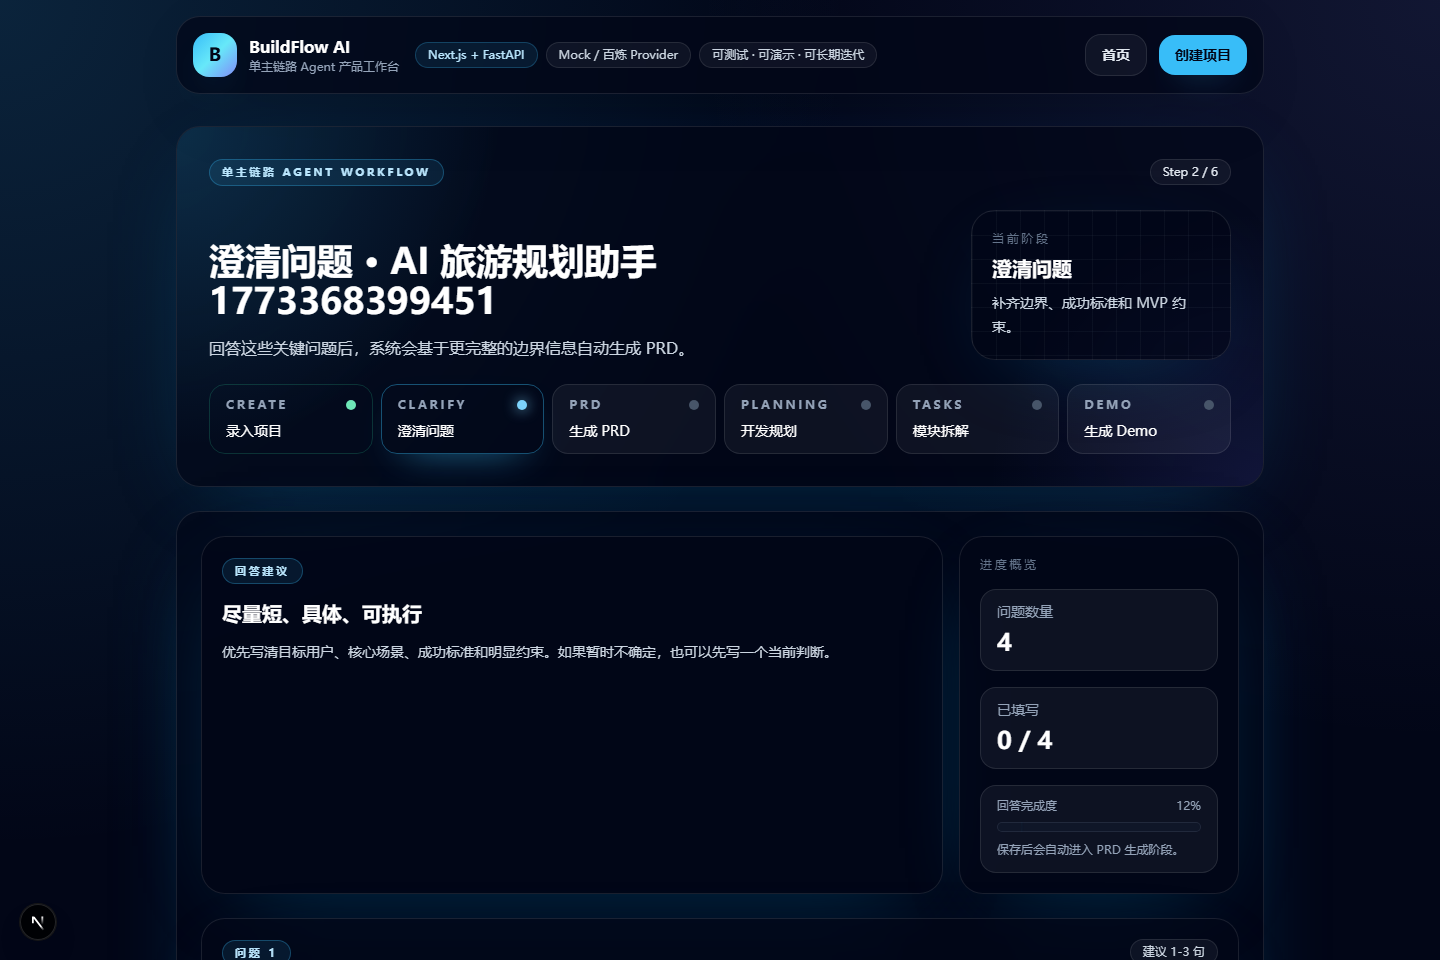
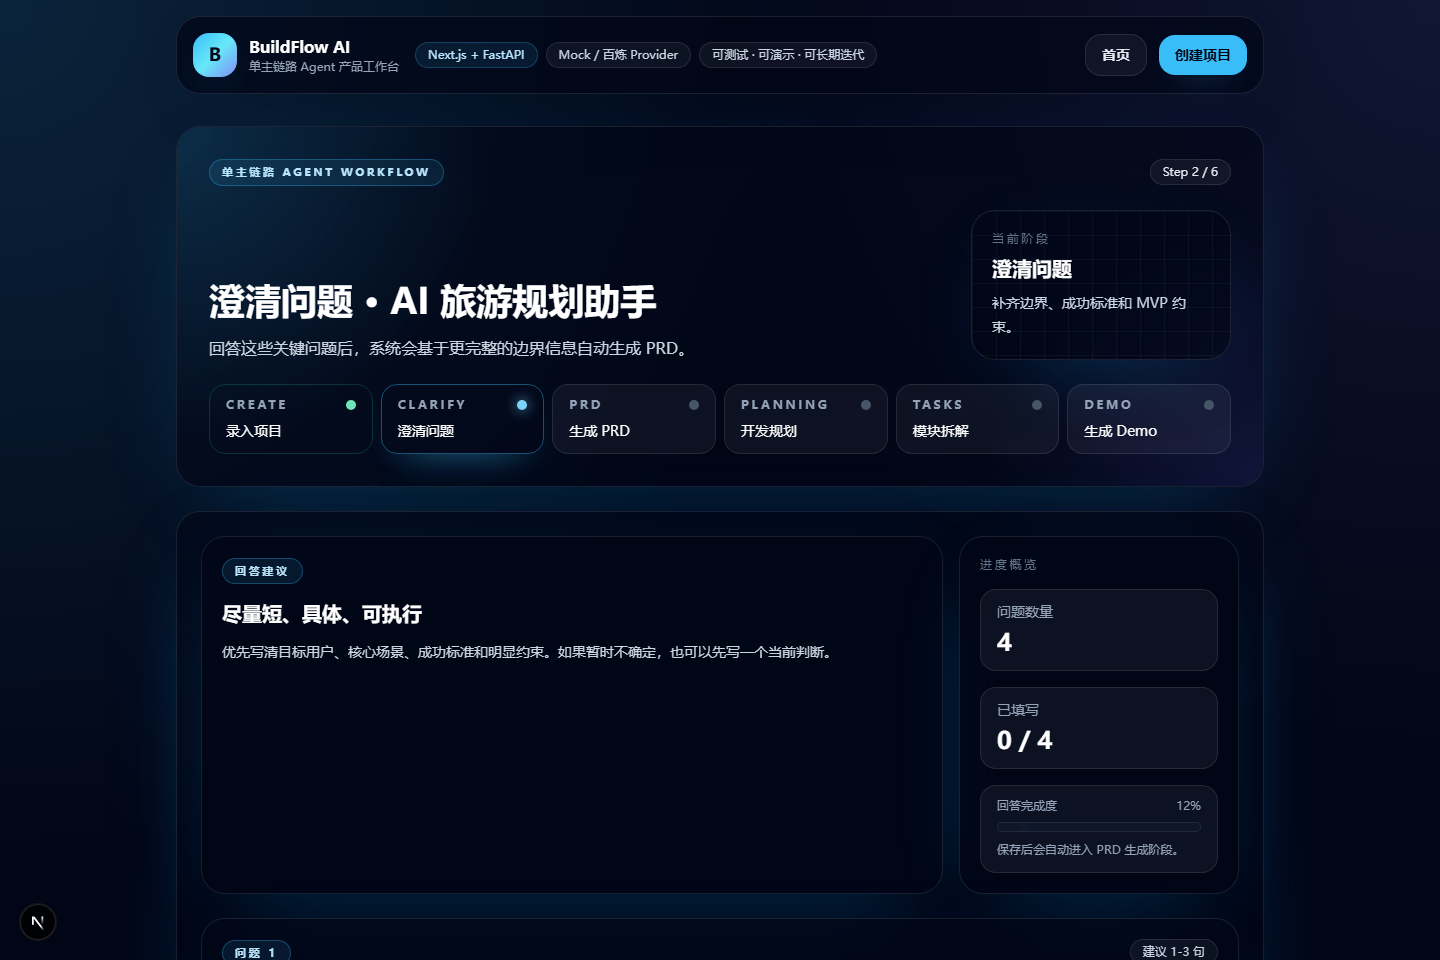
feat: unify external messaging and polish project-name/progress UX

Changed region(s): [[0.125, 0.25, 0.4688, 0.3438]]

diff --git a/web/components/planning-result.tsx b/web/components/planning-result.tsx
@@ -7,6 +7,7 @@ import { PageShell } from "@/components/page-shell";
 import { PlanningViewer } from "@/components/planning-viewer";
 import { StatusPanel } from "@/components/status-panel";
 import { exportPlanningMarkdown, generateTaskBreakdown, getLatestPlanning, getProject, getRun } from "@/lib/api-client";
+import { normalizeProjectName } from "@/lib/project-name";
 import { loadArtifactWithPolling } from "@/lib/run-artifact-polling";
 import { PlanningArtifact, Project } from "@/lib/types";
 
@@ -63,6 +64,7 @@ export function PlanningResult({ projectId, runId }: { projectId: string; runId?
   }, [projectId, runId]);
 
   const markdown = useMemo(() => artifact?.content_markdown ?? "", [artifact]);
+  const normalizedProjectName = useMemo(() => normalizeProjectName(project?.name), [project?.name]);
 
   async function handleExport() {
     const content = await exportPlanningMarkdown(projectId);
@@ -88,7 +90,11 @@ export function PlanningResult({ projectId, runId }: { projectId: string; runId?
   }
 
   return (
-    <PageShell stageKey="planning" title={`开发规划${project ? ` · ${project.name}` : ""}`} description="Planning Agent 会基于最新 PRD 输出里程碑、任务与测试重点。">
+    <PageShell
+      stageKey="planning"
+      title={`开发规划${normalizedProjectName ? ` · ${normalizedProjectName}` : ""}`}
+      description="Planning Agent 会基于最新 PRD 输出里程碑、任务与测试重点。"
+    >
       <div className="space-y-6">
         <StatusPanel
           phaseLabel="开发规划"

diff --git a/web/components/demo-result.tsx b/web/components/demo-result.tsx
@@ -6,6 +6,7 @@ import { DemoViewer } from "@/components/demo-viewer";
 import { PageShell } from "@/components/page-shell";
 import { StatusPanel } from "@/components/status-panel";
 import { exportDemoMarkdown, getLatestDemo, getProject, getRun } from "@/lib/api-client";
+import { normalizeProjectName } from "@/lib/project-name";
 import { loadArtifactWithPolling } from "@/lib/run-artifact-polling";
 import { DemoArtifact, Project } from "@/lib/types";
 
@@ -60,6 +61,7 @@ export function DemoResult({ projectId, runId }: { projectId: string; runId?: st
   }, [projectId, runId]);
 
   const markdown = useMemo(() => artifact?.content_markdown ?? "", [artifact]);
+  const normalizedProjectName = useMemo(() => normalizeProjectName(project?.name), [project?.name]);
 
   async function handleExport() {
     const content = await exportDemoMarkdown(projectId);
@@ -73,7 +75,11 @@ export function DemoResult({ projectId, runId }: { projectId: string; runId?: st
   }
 
   return (
-    <PageShell stageKey="demo" title={`产品 Demo${project ? ` · ${project.name}` : ""}`} description="Demo Generator 会基于前序产物生成可交互演示区、多 Agent 面板和展示脚本。">
+    <PageShell
+      stageKey="demo"
+      title={`产品 Demo${normalizedProjectName ? ` · ${normalizedProjectName}` : ""}`}
+      description="Demo Generator 会基于前序产物生成可交互演示区、多 Agent 面板和展示脚本。"
+    >
       <div className="space-y-6">
         <StatusPanel
           phaseLabel="产品 Demo"

diff --git a/web/components/prd-result.tsx b/web/components/prd-result.tsx
@@ -7,6 +7,7 @@ import { PageShell } from "@/components/page-shell";
 import { PrdViewer } from "@/components/prd-viewer";
 import { StatusPanel } from "@/components/status-panel";
 import { exportMarkdown, generatePlanning, getLatestPrd, getProject, getRun } from "@/lib/api-client";
+import { normalizeProjectName } from "@/lib/project-name";
 import { loadArtifactWithPolling } from "@/lib/run-artifact-polling";
 import { Project, PrdArtifact } from "@/lib/types";
 
@@ -63,6 +64,7 @@ export function PrdResult({ projectId, runId }: { projectId: string; runId?: str
   }, [projectId, runId]);
 
   const markdown = useMemo(() => artifact?.content_markdown ?? "", [artifact]);
+  const normalizedProjectName = useMemo(() => normalizeProjectName(project?.name), [project?.name]);
 
   async function handleExport() {
     const content = await exportMarkdown(projectId);
@@ -88,7 +90,11 @@ export function PrdResult({ projectId, runId }: { projectId: string; runId?: str
   }
 
   return (
-    <PageShell stageKey="prd" title={`PRD 结果${project ? ` · ${project.name}` : ""}`} description="系统会输出结构化 PRD，并保留可导出的 Markdown 版本。">
+    <PageShell
+      stageKey="prd"
+      title={`PRD 结果${normalizedProjectName ? ` · ${normalizedProjectName}` : ""}`}
+      description="系统会输出结构化 PRD，并保留可导出的 Markdown 版本。"
+    >
       <div className="space-y-6">
         <StatusPanel
           phaseLabel="PRD 生成"

diff --git a/web/components/demo-viewer.tsx b/web/components/demo-viewer.tsx
@@ -3,6 +3,7 @@
 import { useEffect, useMemo, useState } from "react";
 
 import { AgentRunPanel } from "@/components/agent-run-panel";
+import { normalizeProjectName } from "@/lib/project-name";
 import { DemoBlueprintDocument } from "@/lib/types";
 
 function getLinkedScreenIndex(currentIndex: number, screenCount: number) {
@@ -31,6 +32,10 @@ export function DemoViewer({ document }: { document: DemoBlueprintDocument }) {
 
     return activeScreen.actions[activeActionIndex] ?? activeScreen.actions[0] ?? null;
   }, [activeActionIndex, activeScreen]);
+  const normalizedProductName = useMemo(
+    () => normalizeProjectName(document.product_name) || document.product_name,
+    [document.product_name],
+  );
 
   const sampleInputs = activeScreen?.sample_inputs ?? [];
   const sampleOutputs = activeScreen?.sample_outputs ?? [];
@@ -42,7 +47,7 @@ export function DemoViewer({ document }: { document: DemoBlueprintDocument }) {
       <section className="hero-panel px-6 py-6">
         <div className="flex flex-wrap items-center gap-2">
           <span className="section-label">产品 Demo Studio</span>
-          <span className="stage-pill border-white/10 bg-white/5 text-slate-300">{document.product_name}</span>
+          <span className="stage-pill border-white/10 bg-white/5 text-slate-300">{normalizedProductName}</span>
         </div>
 
         <div className="mt-6 flex flex-col gap-5 xl:flex-row xl:items-end xl:justify-between">

diff --git a/web/components/task-breakdown-result.tsx b/web/components/task-breakdown-result.tsx
@@ -7,6 +7,7 @@ import { PageShell } from "@/components/page-shell";
 import { StatusPanel } from "@/components/status-panel";
 import { TaskBreakdownViewer } from "@/components/task-breakdown-viewer";
 import { exportTaskBreakdownMarkdown, generateDemo, getLatestTaskBreakdown, getProject, getRun } from "@/lib/api-client";
+import { normalizeProjectName } from "@/lib/project-name";
 import { loadArtifactWithPolling } from "@/lib/run-artifact-polling";
 import { Project, TaskBreakdownArtifact } from "@/lib/types";
 
@@ -63,6 +64,7 @@ export function TaskBreakdownResult({ projectId, runId }: { projectId: string; r
   }, [projectId, runId]);
 
   const markdown = useMemo(() => artifact?.content_markdown ?? "", [artifact]);
+  const normalizedProjectName = useMemo(() => normalizeProjectName(project?.name), [project?.name]);
 
   async function handleExport() {
     const content = await exportTaskBreakdownMarkdown(projectId);
@@ -90,7 +92,7 @@ export function TaskBreakdownResult({ projectId, runId }: { projectId: string; r
   return (
     <PageShell
       stageKey="task-breakdown"
-      title={`模块任务拆解${project ? ` · ${project.name}` : ""}`}
+      title={`模块任务拆解${normalizedProjectName ? ` · ${normalizedProjectName}` : ""}`}
       description="Task Breakdown Agent 会把 PRD 和开发规划继续拆到模块、任务、验收标准和测试清单。"
     >
       <div className="space-y-6">

diff --git a/web/components/clarification-flow.tsx b/web/components/clarification-flow.tsx
@@ -7,6 +7,7 @@ import { PageShell } from "@/components/page-shell";
 import { ProgressBar } from "@/components/progress-bar";
 import { StatusPanel } from "@/components/status-panel";
 import { generateClarifications, getProject, generatePrd, saveClarificationAnswers } from "@/lib/api-client";
+import { normalizeProjectName } from "@/lib/project-name";
 import { ClarificationQuestion, Project } from "@/lib/types";
 
 function getAnsweredCount(questions: ClarificationQuestion[], answers: Record<string, string>) {
@@ -84,6 +85,7 @@ export function ClarificationFlow({ projectId }: { projectId: string }) {
 
   const answeredCount = useMemo(() => getAnsweredCount(questions, answers), [questions, answers]);
   const completionRatio = questions.length ? (answeredCount / questions.length) * 100 : 0;
+  const normalizedProjectName = useMemo(() => normalizeProjectName(project?.name), [project?.name]);
 
   if (loading) {
     return (
@@ -108,7 +110,7 @@ export function ClarificationFlow({ projectId }: { projectId: string }) {
   return (
     <PageShell
       stageKey="clarify"
-      title={`澄清问题${project ? ` · ${project.name}` : ""}`}
+      title={`澄清问题${normalizedProjectName ? ` · ${normalizedProjectName}` : ""}`}
       description="回答这些关键问题后，系统会基于更完整的边界信息自动生成 PRD。"
     >
       <div className="space-y-6">

diff --git a/web/app/projects/new/page.tsx b/web/app/projects/new/page.tsx
@@ -5,6 +5,7 @@ import { useRouter } from "next/navigation";
 
 import { PageShell } from "@/components/page-shell";
 import { createProject } from "@/lib/api-client";
+import { normalizeProjectName } from "@/lib/project-name";
 import { Platform } from "@/lib/types";
 
 const outcomeItems = [
@@ -25,7 +26,7 @@ export default function NewProjectPage() {
 
     const formData = new FormData(event.currentTarget);
     const payload = {
-      name: String(formData.get("name") ?? ""),
+      name: normalizeProjectName(String(formData.get("name") ?? "")),
       idea: String(formData.get("idea") ?? ""),
       target_user: String(formData.get("target_user") ?? ""),
       platform: String(formData.get("platform") ?? "web") as Platform,

diff --git a/web/app/globals.css b/web/app/globals.css
@@ -127,14 +127,14 @@ body::after {
   .progress-fill {
     position: absolute;
     inset: 0;
-    width: 100%;
+    width: 0;
     height: 100%;
     border-radius: 9999px;
     background-size: 200% 100%;
     animation: shimmer 2.8s linear infinite;
-    transition: transform 280ms ease;
+    transition: width 280ms ease;
     box-shadow: 0 0 24px rgba(56, 189, 248, 0.22);
-    will-change: transform;
+    will-change: width;
   }
 
   .progress-fill--sky {

diff --git a/web/components/progress-bar.tsx b/web/components/progress-bar.tsx
@@ -33,8 +33,7 @@ export function ProgressBar({
         <div
           className={`progress-fill progress-fill--${tone}`}
           style={{
-            transform: `scaleX(${normalized / 100})`,
-            transformOrigin: "left center",
+            width: `${normalized}%`,
           }}
         />
       </div>

diff --git a/web/lib/project-name.ts b/web/lib/project-name.ts
@@ -1,0 +1,9 @@
+const TRAILING_TIMESTAMP_SUFFIX_REGEX = /\s+\d{8,}$/u;
+
+export function normalizeProjectName(name: string | null | undefined): string {
+  if (!name) {
+    return "";
+  }
+
+  return name.replace(TRAILING_TIMESTAMP_SUFFIX_REGEX, "").trim();
+}

diff --git a/api/app/services/project_service.py b/api/app/services/project_service.py
@@ -1,5 +1,14 @@
 from app.repositories.project_repository import ProjectRepository
+import re
+
 from app.schemas.project import ProjectCreate
+
+TRAILING_TIMESTAMP_SUFFIX_REGEX = re.compile(r"\s+\d{8,}$")
+
+
+def normalize_project_name(name: str) -> str:
+    normalized = TRAILING_TIMESTAMP_SUFFIX_REGEX.sub("", name).strip()
+    return normalized or name.strip()
 
 
 class ProjectService:
@@ -7,7 +16,8 @@ class ProjectService:
         self.repository = repository
 
     def create_project(self, payload: ProjectCreate):
-        return self.repository.create(payload)
+        normalized_payload = payload.model_copy(update={"name": normalize_project_name(payload.name)})
+        return self.repository.create(normalized_payload)
 
     def get_project(self, project_id: str):
         return self.repository.get_by_id(project_id)

diff --git a/api/tests/test_main_flow.py b/api/tests/test_main_flow.py
@@ -19,6 +19,23 @@ def test_create_project(client):
     assert payload["platform"] == "web"
 
 
+def test_create_project_strips_timestamp_suffix(client):
+    response = client.post(
+        "/api/v1/projects",
+        json={
+            "name": "AI 旅游规划助手 1741812345678",
+            "idea": "一个帮助用户把产品想法变成 PRD 的 AI 工具",
+            "target_user": "独立开发者、产品经理",
+            "platform": "web",
+            "constraints": "一天内完成 MVP",
+        },
+    )
+
+    assert response.status_code == 201
+    payload = response.json()["data"]
+    assert payload["name"] == "AI 旅游规划助手"
+
+
 def test_clarification_generation_and_answer_save(client):
     project = create_project(client)
     project_id = project["id"]
